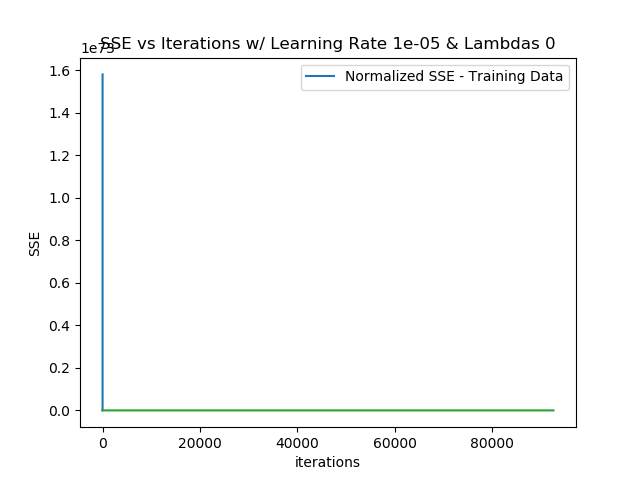
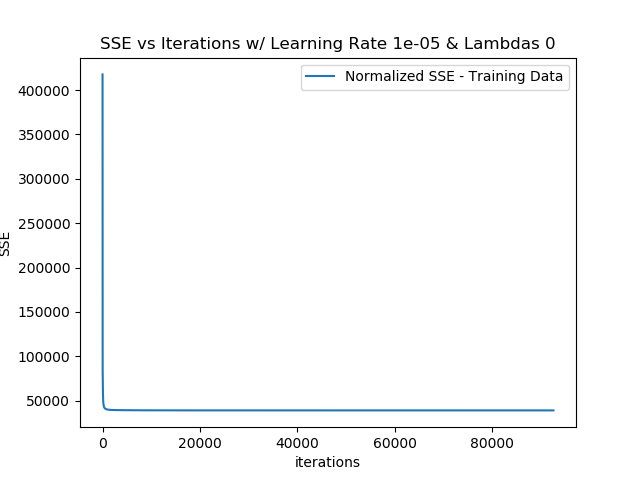
update

diff --git a/implementation1.py b/implementation1.py
@@ -92,33 +92,13 @@ def linear_regress(x, y, eta, t, lamb):
         # Initialize gradient for each epoch
         gradient_vector = np.zeros(len(x[0]))
 
-        """        
-        #Traverse through each data point   
-        for i in range(len(x)):
-            #Predicted value
-            y_hat = np.dot(w.T,x[i])
-
-            #Error
-            e[i] = ((y[i] - y_hat)**2)
-
-
-            #Regularization
-            if np.dot(w.T,w) == 0:
-                r = 0
-            else:
-                r = (np.dot(w.T,w))**0.5
-
-            #Traverse through each feature to update corresponding weights
-            #for j in range(len(x[0])):
-            #    gradient_vector[j] += ((-2)*(y[i] - y_hat)*x[i,j]) + (2*lamb*r)
-            gradient_vector += 
-        """
-
         # y_hat = np.matmul(w.T, x)
         y_hat = np.matmul(x, w)
         e = (y - y_hat) ** 2
 
-        gradient_vector = (-2) * np.matmul(x.T, (y - y_hat))
+        reg = np.array([i for i in w])
+        reg[0] = 0
+        gradient_vector = (-2) * np.matmul(x.T, (y - y_hat)) + 2*lamb*reg
         # Update weights
         w -= eta * gradient_vector
         # Calculate SSE
@@ -137,8 +117,8 @@ def linear_regress(x, y, eta, t, lamb):
 
         n += 1
         if convergence_criteria < 0.5:
-        	print("#Iteration: " + str(n) +"####")
-        	print("#Gradient: " + str(gradient[n-1]))
+            print("#Iteration: " + str(n) +"####")
+            print("#Gradient: " + str(gradient[n-1]))
 
             #print(f'#Iteration : {n}#####')
             #print(f'Gradient : {gradient[n - 1]}')
@@ -146,32 +126,14 @@ def linear_regress(x, y, eta, t, lamb):
             print("")
             print("")
             return w, errors, gradient, n
-<<<<<<< HEAD
         if (n) % 50000 == 0:
-=======
-<<<<<<< HEAD
-        if (n) % 50 == 0:
+
             print("#Iteration: " + str(n) +"####")
-        	print("#Gradient: " + str(gradient[n-1]))
+            print("#Gradient: " + str(gradient[n-1]))
 
     print("#Iteration: " + str(n) +"####")
     print("#Gradient: " + str(gradient[n-1]))
 
-    print("")
-    print("")
-    print("")
-=======
-        if (n) % 5000 == 0:
->>>>>>> 6bbdd8952f1455039a7e4d9c05cb3ee28b38aad3
-            print(f'#Iteration : {n}#####')
-            print(f'Gradient : {gradient[n - 1]}')
-
-    print(f'#Iteration : {n}#####')
-    print(f'Gradient : {gradient[n - 1]}')
-    print()
-    print()
-    print()
->>>>>>> 91685050929625f0cdae2a431431c9fa41c93f96
     return w, errors, gradient, n
 
 #Validate with validation data
@@ -215,6 +177,7 @@ if __name__ == '__main__':
     # Normalize continuous features
     x_norm_df = normalize(x)
     x_val_norm_df = normalize(x_val)
+    features_name = x_norm_df.columns
 
     # Add Bias
     x_norm_df = add_bias(x_norm_df)
@@ -227,6 +190,7 @@ if __name__ == '__main__':
 
     get_stats(df_train, ['waterfront', 'grade', 'condition'])
     get_freq_percentage_count(df_train, ['waterfront', 'grade', 'condition'])
+
 
     for learning_rate in learning_rates:
         if learning_rate == 1:
@@ -253,6 +217,8 @@ if __name__ == '__main__':
         print("SSE training: " + str(sse[-1]))
         print("SSE validation: " + str(sse_val))
         print("Iteration Count: " + str(iterations_count))
+        print("weight:")
+        print(pd.DataFrame(weights, features_name))
         print()
 
         plt.plot(sse)
@@ -263,6 +229,7 @@ if __name__ == '__main__':
         filename = "learning_rate_" + string_learning_rate + "_lambda_0"
         plt.savefig(filename)
 
+    """
     for lamb in lambdas:
         if lamb == 1:
             string_lambdas = "1e0"
@@ -295,3 +262,4 @@ if __name__ == '__main__':
         plt.ylabel('SSE')
         filename = "learning_rate_1e5" + "_lambda_" + string_lambdas
         plt.savefig(filename)
+    """

diff --git a/implementation1_test.py b/implementation1_test.py
@@ -85,9 +85,6 @@ def linear_regress(x, y, eta, t, lamb):
     # Initialize weights [w] and predictions [y_hat]
     w = np.zeros(len(x[0]))
 
-    cur_grad = 0
-    prev_grad = 0
-
     while n < t:
         # Initialize gradient for each epoch
         gradient_vector = np.zeros(len(x[0]))
